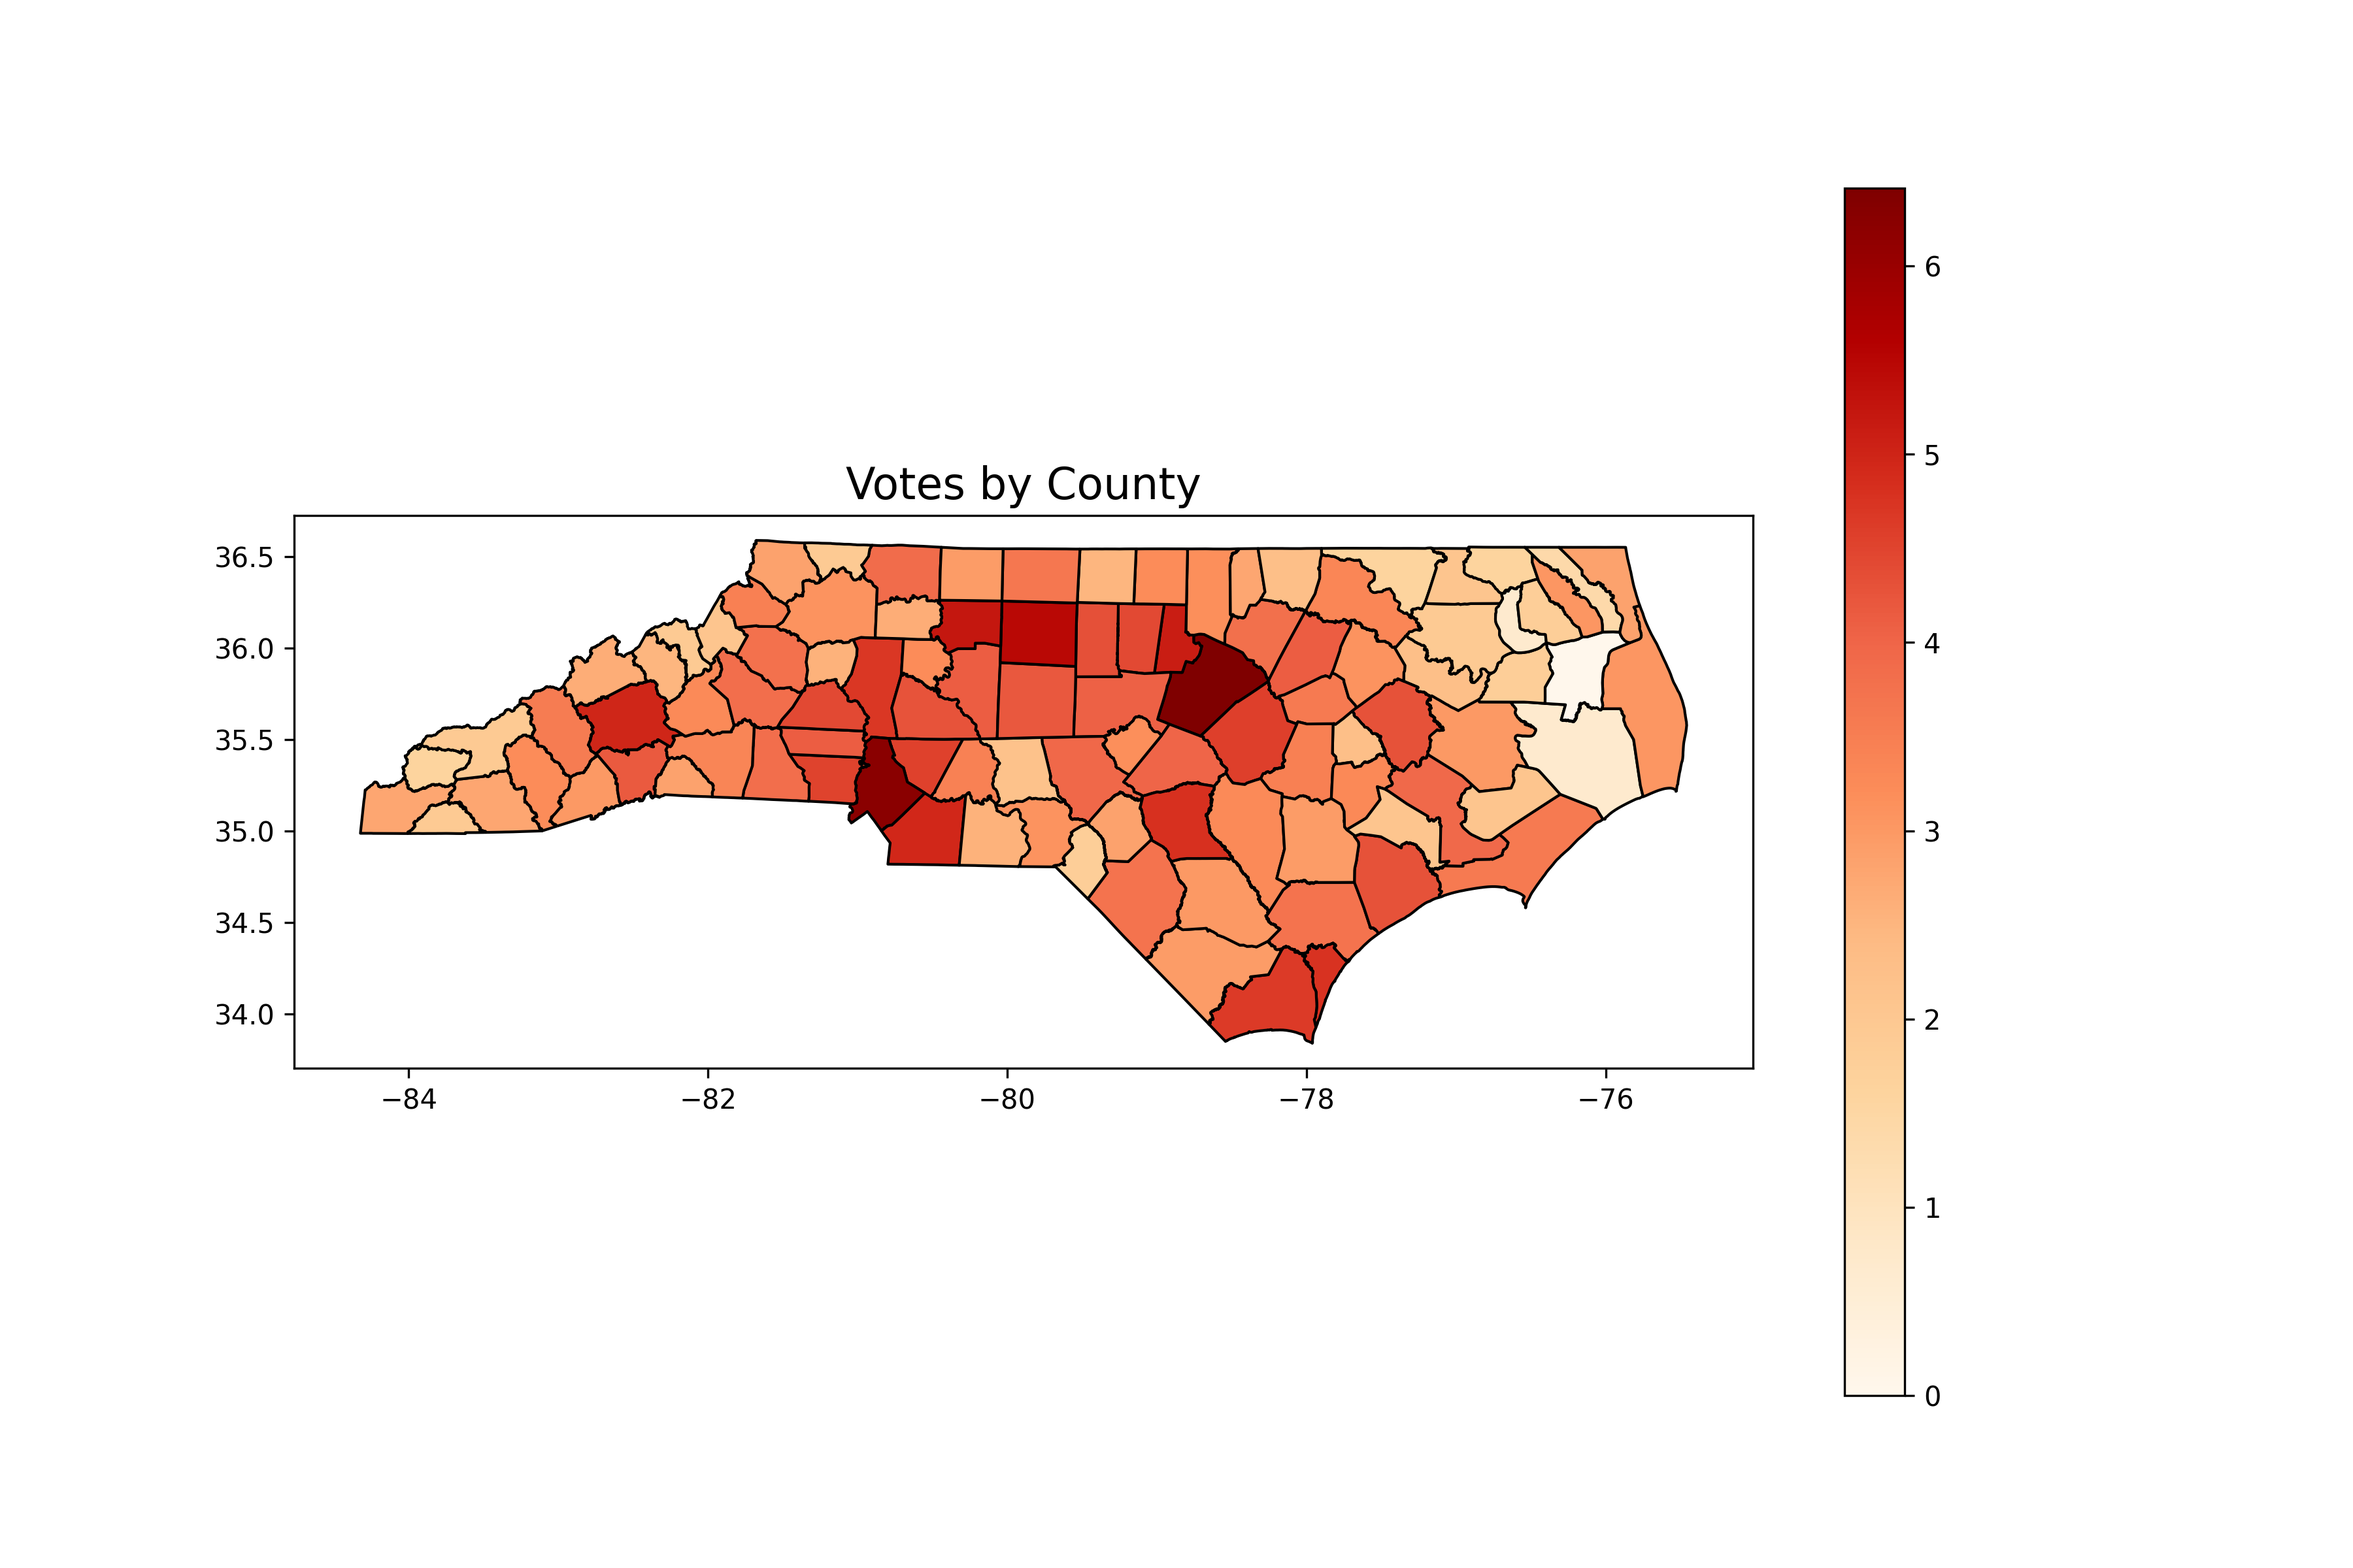
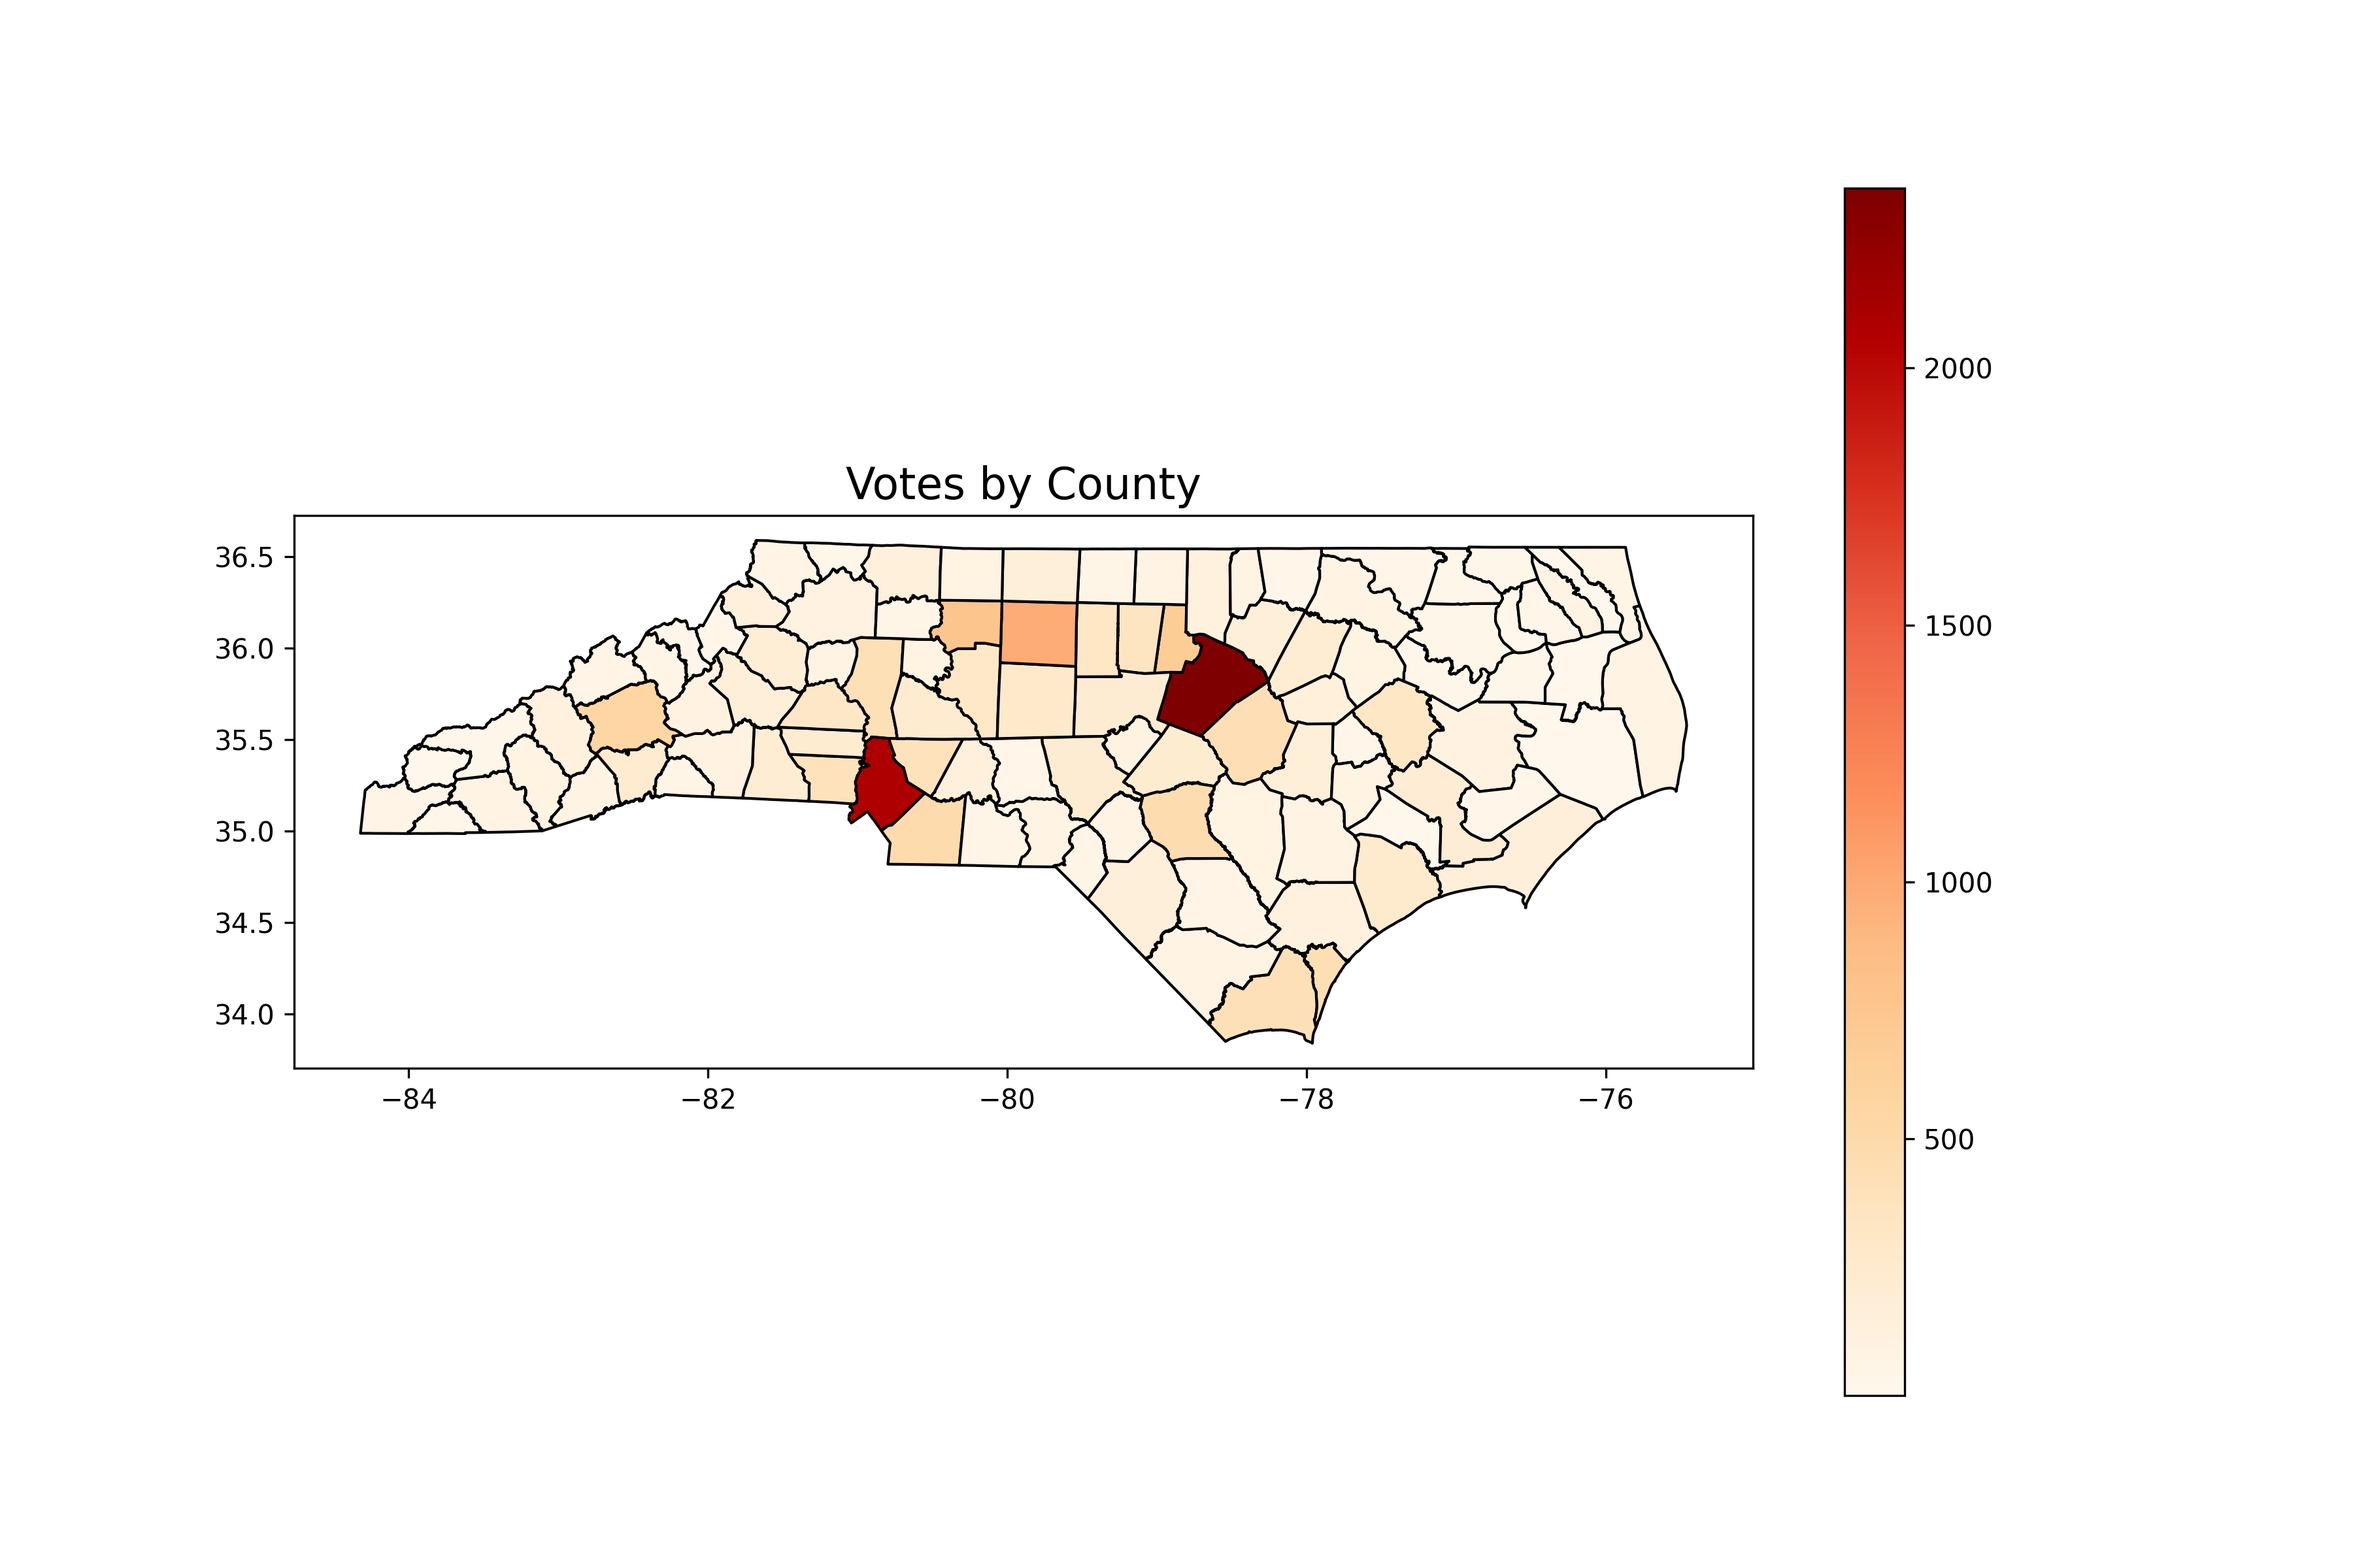
update

diff --git a/Group_Project/Interactive_Vote.py b/Group_Project/Interactive_Vote.py
@@ -1,0 +1,99 @@
+import streamlit as st
+import geopandas as gpd
+import pandas as pd
+import plotly.express as px
+import math
+
+# Load data paths for different years
+DATA_PATHS = {
+    '2016': 'Dataset/vote2016/2016_random_20000_rows.csv',
+    '2020': 'Dataset/vote2020/2020_random_20000_rows.csv',
+    '2024': 'Dataset/vote2024/2024_random_20000_rows.csv'
+}
+GEOJSON_PATH = "Dataset/Geographical_data/NCDOT_County_Boundaries.geojson"
+
+def process_data(year, scale_type):
+    """
+    Process the data for a given year to include vote proportions for each party and apply scale transformation.
+    """
+    # Load vote data for the selected year
+    data_path = DATA_PATHS[year]
+    data_random = pd.read_csv(data_path)
+    
+    # Aggregate votes by county
+    county_counts = data_random['county_desc'].value_counts().reset_index()
+    county_counts.columns = ['county_desc', 'Votes']  # Rename for clarity
+    county_counts['county_desc'] = county_counts['county_desc'].str.upper()  # Standardize names
+    
+    # Apply selected scale type (Log scale, Sqrt scale, Inverse scale, or Normal scale)
+    if scale_type == "Log Scale":
+        county_counts['Votes'] = county_counts['Votes'].apply(lambda x: math.log(x + 1))  # Apply log scale
+    elif scale_type == "Sqrt Scale":
+        county_counts['Votes'] = county_counts['Votes'].apply(lambda x: math.sqrt(x))  # Apply square root scale
+    elif scale_type == "Inverse Scale":
+        county_counts['Votes'] = county_counts['Votes'].apply(lambda x: 1 / (x + 1) if x != 0 else 0)  # Apply inverse scale
+    else:
+        county_counts['Votes'] = county_counts['Votes']  # Normal scale (no transformation)
+    
+    # Load GeoJSON file with county boundaries
+    counties = gpd.read_file(GEOJSON_PATH)
+    counties["CountyName"] = counties["CountyName"].str.upper()  # Standardize names
+    
+    # Merge votes into the GeoDataFrame
+    counties = counties.merge(
+        county_counts,
+        left_on='CountyName',
+        right_on='county_desc',
+        how='left'
+    )
+    counties['Votes'] = counties['Votes'].fillna(0)  # Fill missing counties with 0 votes
+
+    return counties
+
+
+def create_figure(year, color_scale, scale_type):
+    counties = process_data(year, scale_type)
+    counties_json = counties.geometry.__geo_interface__
+    
+    fig = px.choropleth_mapbox(
+        counties,
+        geojson=counties_json,
+        locations=counties.index,
+        hover_name="CountyName",  # Display county name in the hover tooltip
+        color="Votes",  # Color based on Votes
+        color_continuous_scale=color_scale,  # Use selected color scale
+        range_color=[counties['Votes'].min(), counties['Votes'].max()],  # Set color range
+        mapbox_style="carto-positron",
+        zoom=5,
+        center={"lat": 35.5, "lon": -80},
+        opacity=1
+    )
+    
+    # Update layout with title and color bar
+    fig.update_layout(
+        margin={"r": 0, "t": 30, "l": 30, "b": 0},
+        title=f"Vote Amount by County in North Carolina ({year})",
+        coloraxis_colorbar_title="Vote Count (Log Scale)" if scale_type == "Log Scale" else 
+        ("Vote Count (Sqrt Scale)" if scale_type == "Sqrt Scale" else
+         ("Vote Count (Inverse Scale)" if scale_type == "Inverse Scale" else "Vote Count"))
+    )
+    
+    return fig
+
+# Streamlit interface
+st.title("Party Preference by County in North Carolina")
+
+# Dropdown to select Year
+year = st.selectbox("Select Year", ['2016', '2020', '2024'])
+
+# Radio button to choose between Log scale, Sqrt scale, Inverse scale, or Normal scale for Votes
+scale_type = st.radio("Select Scale Type", ["Log Scale", "Sqrt Scale", "Inverse Scale", "Normal Scale"])
+
+# Dropdown to select Color Scale
+color_scale = st.selectbox(
+    "Select Color Scale", 
+    ["Viridis", "Cividis", "Blues", "Inferno", "RdBu", "YlGnBu"]
+)
+
+# Plot the interactive map with the selected year, scale, and color scale
+st.plotly_chart(create_figure(year, color_scale, scale_type))

diff --git a/Group_Project/Interactive_party_preference.py b/Group_Project/Interactive_party_preference.py
@@ -1,0 +1,88 @@
+import streamlit as st
+import geopandas as gpd
+import pandas as pd
+import plotly.express as px
+
+# Load data
+DATA_PATHS = {
+    '2016': 'Dataset/vote2016/2016_random_20000_rows.csv',
+    '2020': 'Dataset/vote2020/2020_random_20000_rows.csv',
+    '2024': 'Dataset/vote2024/2024_random_20000_rows.csv'
+}
+GEOJSON_PATH = "Dataset/Geographical_data/NCDOT_County_Boundaries.geojson"
+
+def process_data(year):
+    """
+    Process the data for a given year to include vote proportions for each party.
+    """
+    # Load vote data for the selected year
+    data_path = DATA_PATHS[year]
+    data_random = pd.read_csv(data_path)
+
+    # Calculate total votes and votes by party for each county
+    party_counts = data_random.groupby(['county_desc', 'voter_party_code']).size().unstack(fill_value=0)
+    party_counts['Total Votes'] = party_counts.sum(axis=1)
+    party_counts['REP %'] = (party_counts.get('REP', 0) / party_counts['Total Votes']) * 100
+    party_counts['DEM %'] = (party_counts.get('DEM', 0) / party_counts['Total Votes']) * 100
+    party_counts['UNA %'] = (party_counts.get('UNA', 0) / party_counts['Total Votes']) * 100
+
+    # Determine the dominant party in each county
+    party_counts['Dominant Party'] = party_counts[['REP', 'DEM', 'UNA']].idxmax(axis=1)
+    party_counts = party_counts.reset_index()
+    party_counts['county_desc'] = party_counts['county_desc'].str.strip().str.upper()
+
+    # Load geographical data
+    counties = gpd.read_file(GEOJSON_PATH)
+    counties["CountyName"] = counties["CountyName"].str.strip().str.upper()
+
+    # Merge vote data with geographical data
+    counties = counties.merge(
+        party_counts[['county_desc', 'Dominant Party', 'REP %', 'DEM %', 'UNA %']],
+        left_on='CountyName',
+        right_on='county_desc',
+        how='left'
+    )
+    counties['Dominant Party'] = counties['Dominant Party'].fillna('No Data')
+    counties['REP %'] = counties['REP %'].fillna(0)
+    counties['DEM %'] = counties['DEM %'].fillna(0)
+    counties['UNA %'] = counties['UNA %'].fillna(0)
+
+    return counties
+
+
+def create_figure(year):
+    counties = process_data(year)
+    counties_json = counties.geometry.__geo_interface__
+    fig = px.choropleth_mapbox(
+        counties,
+        geojson=counties_json,
+        locations=counties.index,
+        color="Dominant Party",
+        hover_name="CountyName",  # Display county name in the hover tooltip
+        hover_data={
+        "Dominant Party": True,   # Include the dominant party
+        "REP %": ':.2f',          # Display Republican vote proportion with 2 decimal places
+        "DEM %": ':.2f',          # Display Democrat vote proportion with 2 decimal places
+        "UNA %": ':.2f',          # Display Unaffiliated vote proportion with 2 decimal places
+    },
+        color_discrete_map={
+            'REP': 'red', 
+            'DEM': 'blue', 
+            'UNA': 'gray', 
+            'No Data': 'lightgray'
+        },
+        mapbox_style="carto-positron",
+        zoom=5,
+        center={"lat": 35.5, "lon": -80},
+        opacity=1
+    )
+    fig.update_layout(
+        margin={"r":0,"t":30,"l":30,"b":0},
+        title=f"Party Preference by County in North Carolina ({year})"
+    )
+    return fig
+
+# Streamlit interface
+st.title("Party Preference by County in North Carolina")
+year = st.selectbox("Select Year", ['2016', '2020', '2024'])
+st.plotly_chart(create_figure(year))

diff --git a/Group_Project/NC_map.py b/Group_Project/NC_map.py
@@ -25,7 +25,7 @@ def vote(save_figures, display_figures):
     # 2024
     # data_path = 'Dataset/absentee_random_20000.csv'
     # 2016
-    data_path = 'Dataset/2016_random_20000_rows.csv'
+    data_path = 'Dataset/vote2016/2016_random_20000_rows.csv'
     data_random = pd.read_csv(data_path)
     data_random_processed = feature(data_random)  # Custom preprocessing function
     
@@ -36,7 +36,7 @@ def vote(save_figures, display_figures):
     county_counts['Votes'] = county_counts['Votes'].apply(lambda x: math.log(x + 1))  # Apply log scale
     
     # Load GeoJSON file with county boundaries
-    geojson_path = "Dataset/NCDOT_County_Boundaries.geojson"
+    geojson_path = "Dataset/Geographical_data/NCDOT_County_Boundaries.geojson"
     counties = gpd.read_file(geojson_path)
     counties["CountyName"] = counties["CountyName"].str.upper()  # Standardize names
     
@@ -50,24 +50,24 @@ def vote(save_figures, display_figures):
     counties['Votes'] = counties['Votes'].fillna(0)  # Fill missing counties with 0 votes
     
     # Save updated GeoJSON for future use (optional)
-    output_geojson_path = "Dataset/NCDOT_County_Boundaries_with_votes.geojson"
+    output_geojson_path = "Dataset/Geographical_data/NCDOT_County_Boundaries_with_votes.geojson"
     counties.to_file(output_geojson_path, driver="GeoJSON")
     print(f"Updated GeoJSON saved to {output_geojson_path}")
     
     # Generate visualizations
-    plot_vote_map(
-        geo_data=counties,
-        column='Votes',
-        cmap='OrRd',
-        output_image="Figure/votes_map.png",
-        save=save_figures,
-        display=display_figures
-    )
+    # plot_vote_map(
+    #     geo_data=counties,
+    #     column='Votes',
+    #     cmap='OrRd',
+    #     output_image="Figure/votes_map.png",
+    #     save=save_figures,
+    #     display=display_figures
+    # )
     plot_vote_map_with_labels(
         geo_data=counties,
         column='Votes',
         label_column='CountyName',
-        cmap='Greys',
+        cmap='OrRd',
         output_image="Figure/votes_by_county_with_names.png",
         save=save_figures,
         display=display_figures

diff --git a/Group_Project/geo_distribution.py b/Group_Project/geo_distribution.py
@@ -40,7 +40,8 @@ The GEO data is download from [website](https://www.nconemap.gov/datasets/NCDOT:
 
 def vote():
     # Load the vote data
-    data_random = pd.read_csv('Dataset/absentee_random_5000.csv')
+    file_path = 'Dataset/vote2024/2024_random_20000_rows.csv'
+    data_random = pd.read_csv(file_path)
     data_random_m = feature(data_random)  # Assuming feature processes the data
     
     # Count votes by county
@@ -49,7 +50,7 @@ def vote():
     # print(county_counts.head())  # Preview the vote counts
     
     # Load the GeoJSON file
-    geojson_path = "Dataset/NCDOT_County_Boundaries.geojson"
+    geojson_path = "Dataset/Geographical_data/NCDOT_County_Boundaries.geojson"
     counties = gpd.read_file(geojson_path)
 
     
@@ -58,7 +59,7 @@ def vote():
     # print("CountyName (GeoJSON):", counties["CountyName"].unique())  # Debugging unique CountyName values
     
     # convert the Votes to is log scale
-    county_counts['Votes'] = county_counts['Votes'].apply(lambda x: math.log(x+1))
+    # county_counts['Votes'] = county_counts['Votes'].apply(lambda x: math.log(x+1))
     # Convert county_desc in county_counts to uppercase for matching
     county_counts["county_desc"] = county_counts["county_desc"].str.upper()
     # print("county_desc (Vote Data):", county_counts["county_desc"].unique())  # Debugging unique county_desc values
@@ -135,7 +136,7 @@ def plot_vote_map_with_labels(geo_data, column, label_column='CountyName', cmap=
             ax.annotate(
                 text=row[label_column],   # Use county name as label
                 xy=centroid,             # Position at the centroid
-                fontsize=8,
+                fontsize=6,
                 ha='center',
                 color='black'
             )

diff --git a/Group_Project/party_preference_map.py b/Group_Project/party_preference_map.py
@@ -15,7 +15,7 @@ def vote_with_party_preference(save_figures, display_figures):
     """
     # Load the vote data
     # data_path = 'Dataset/absentee_random_20000.csv'
-    data_path = 'Dataset/2016_random_20000_rows.csv'    
+    data_path = 'Dataset/vote2016/2016_random_20000_rows.csv'    
     data_random = pd.read_csv(data_path)
     
     # Aggregate votes by county and party
@@ -30,7 +30,7 @@ def vote_with_party_preference(save_figures, display_figures):
     party_counts['Dominant Party'] = party_counts['Dominant Party'].fillna('No Data')
 
     # Load GeoJSON file with county boundaries
-    geojson_path = "Dataset/NCDOT_County_Boundaries.geojson"
+    geojson_path = "Dataset/Geographical_data/NCDOT_County_Boundaries.geojson"
     counties = gpd.read_file(geojson_path)
     counties["CountyName"] = counties["CountyName"].str.strip().str.upper()
 
